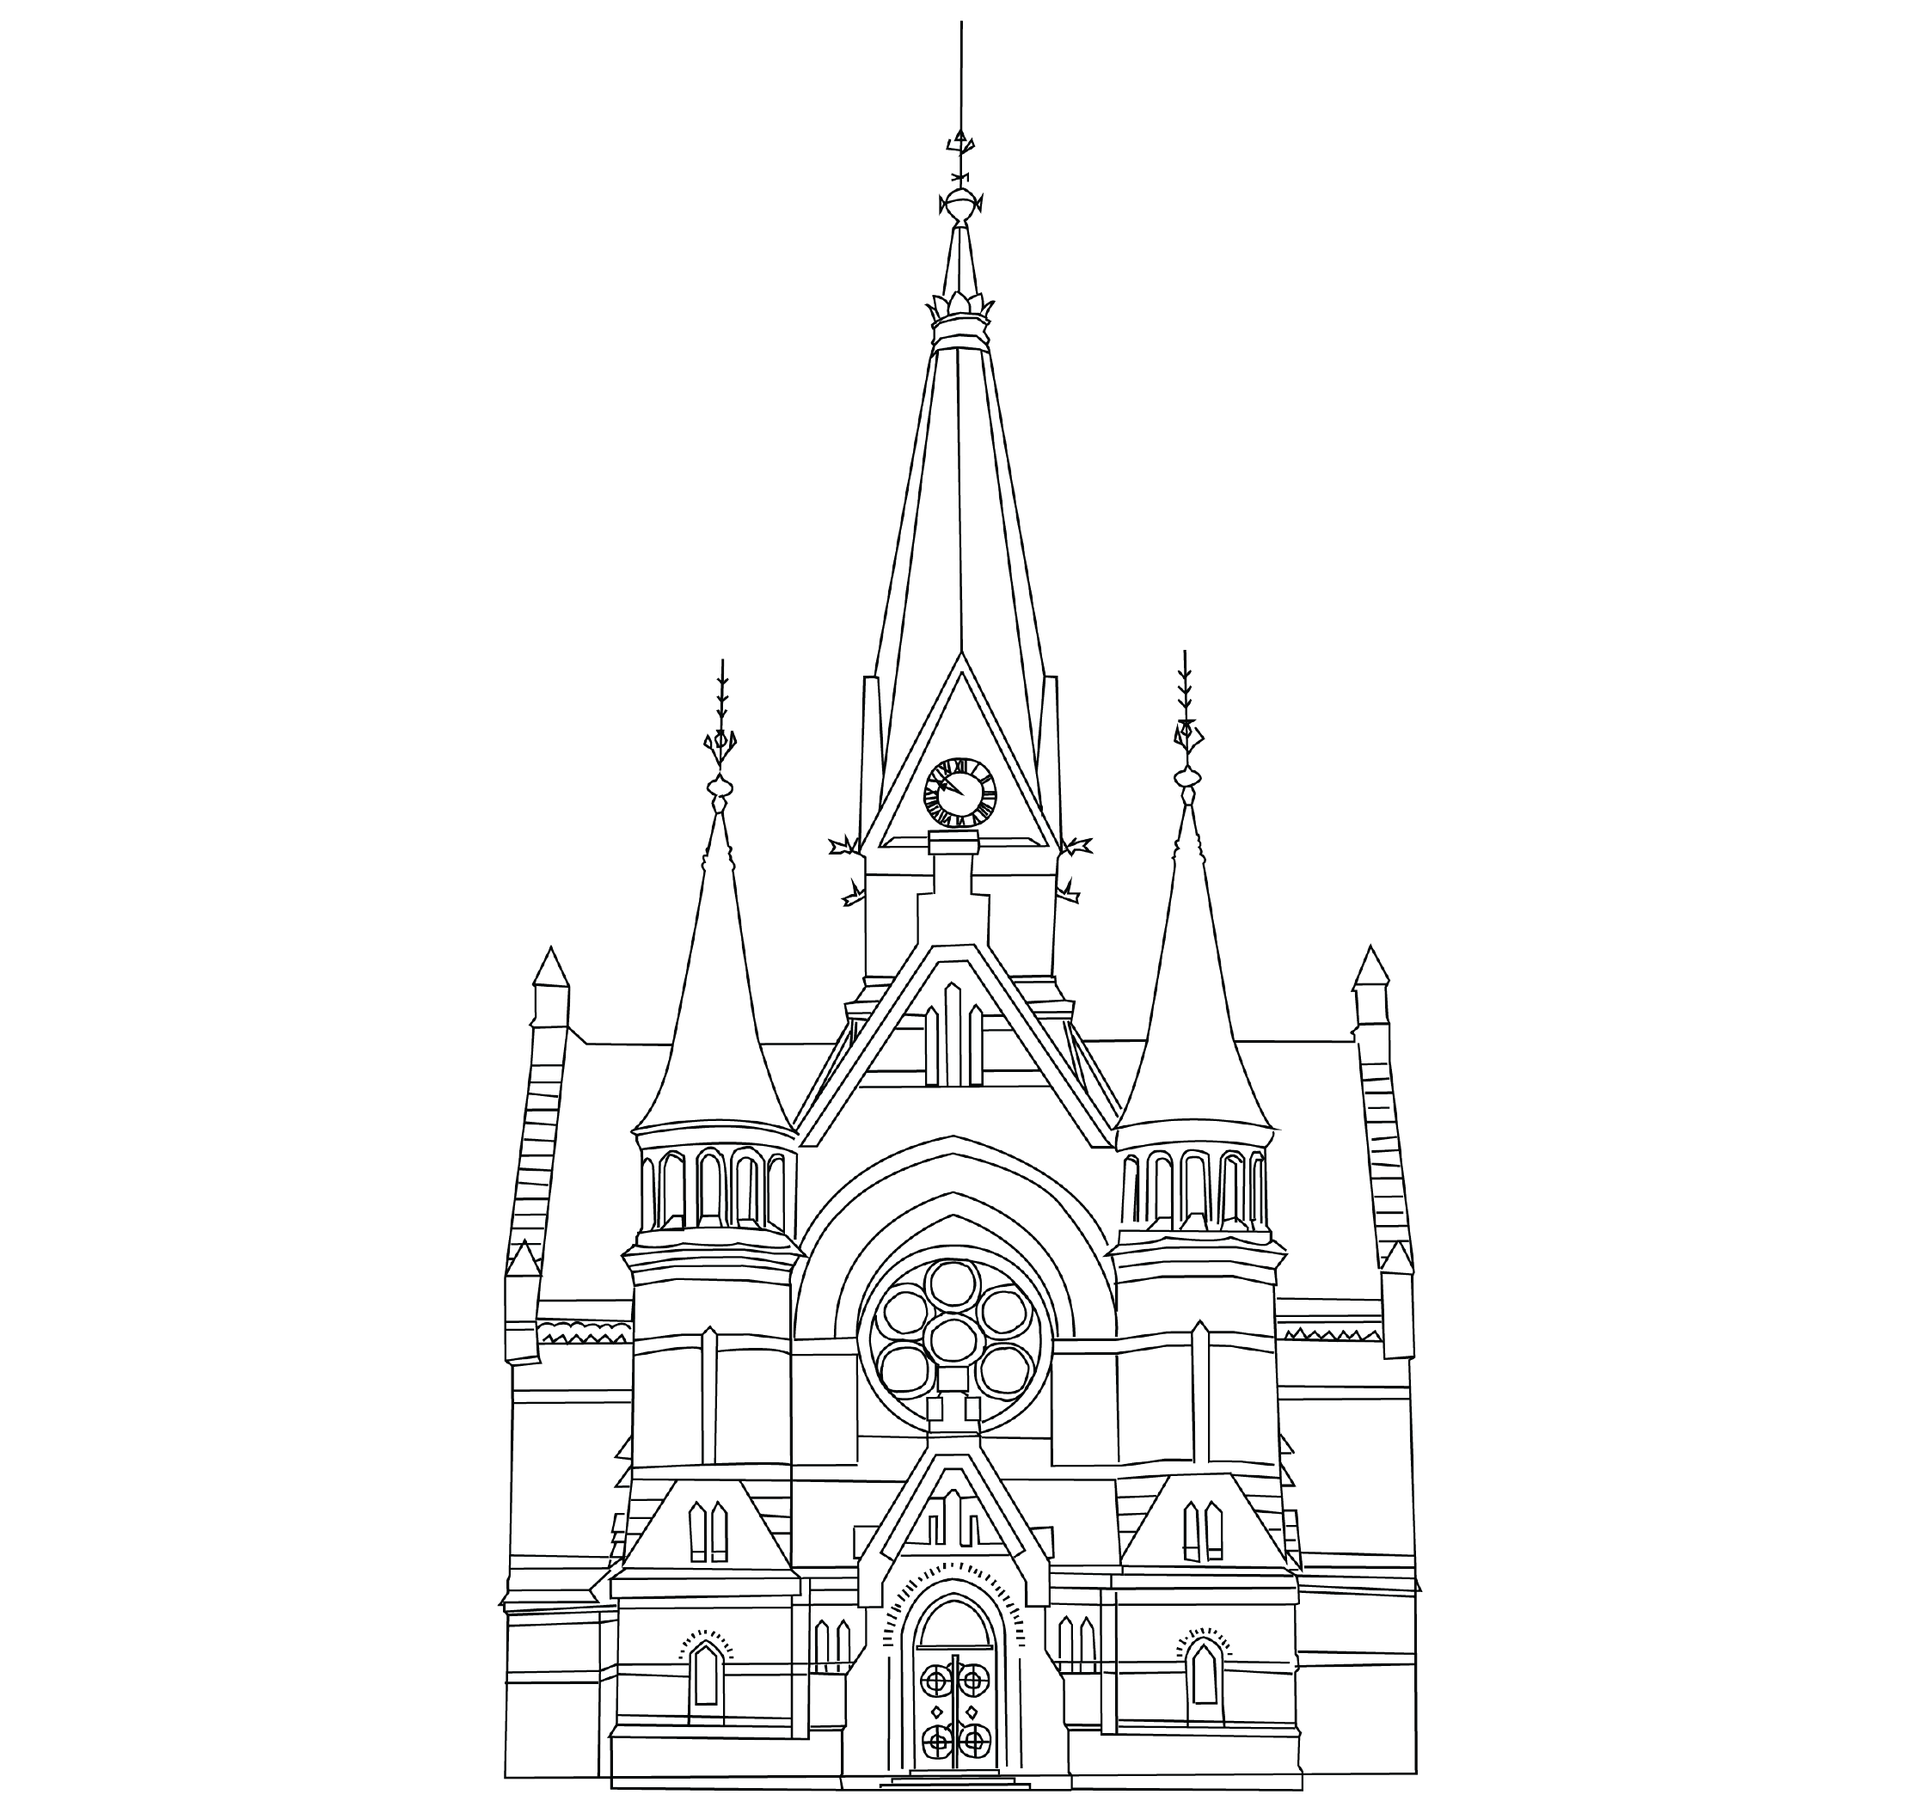
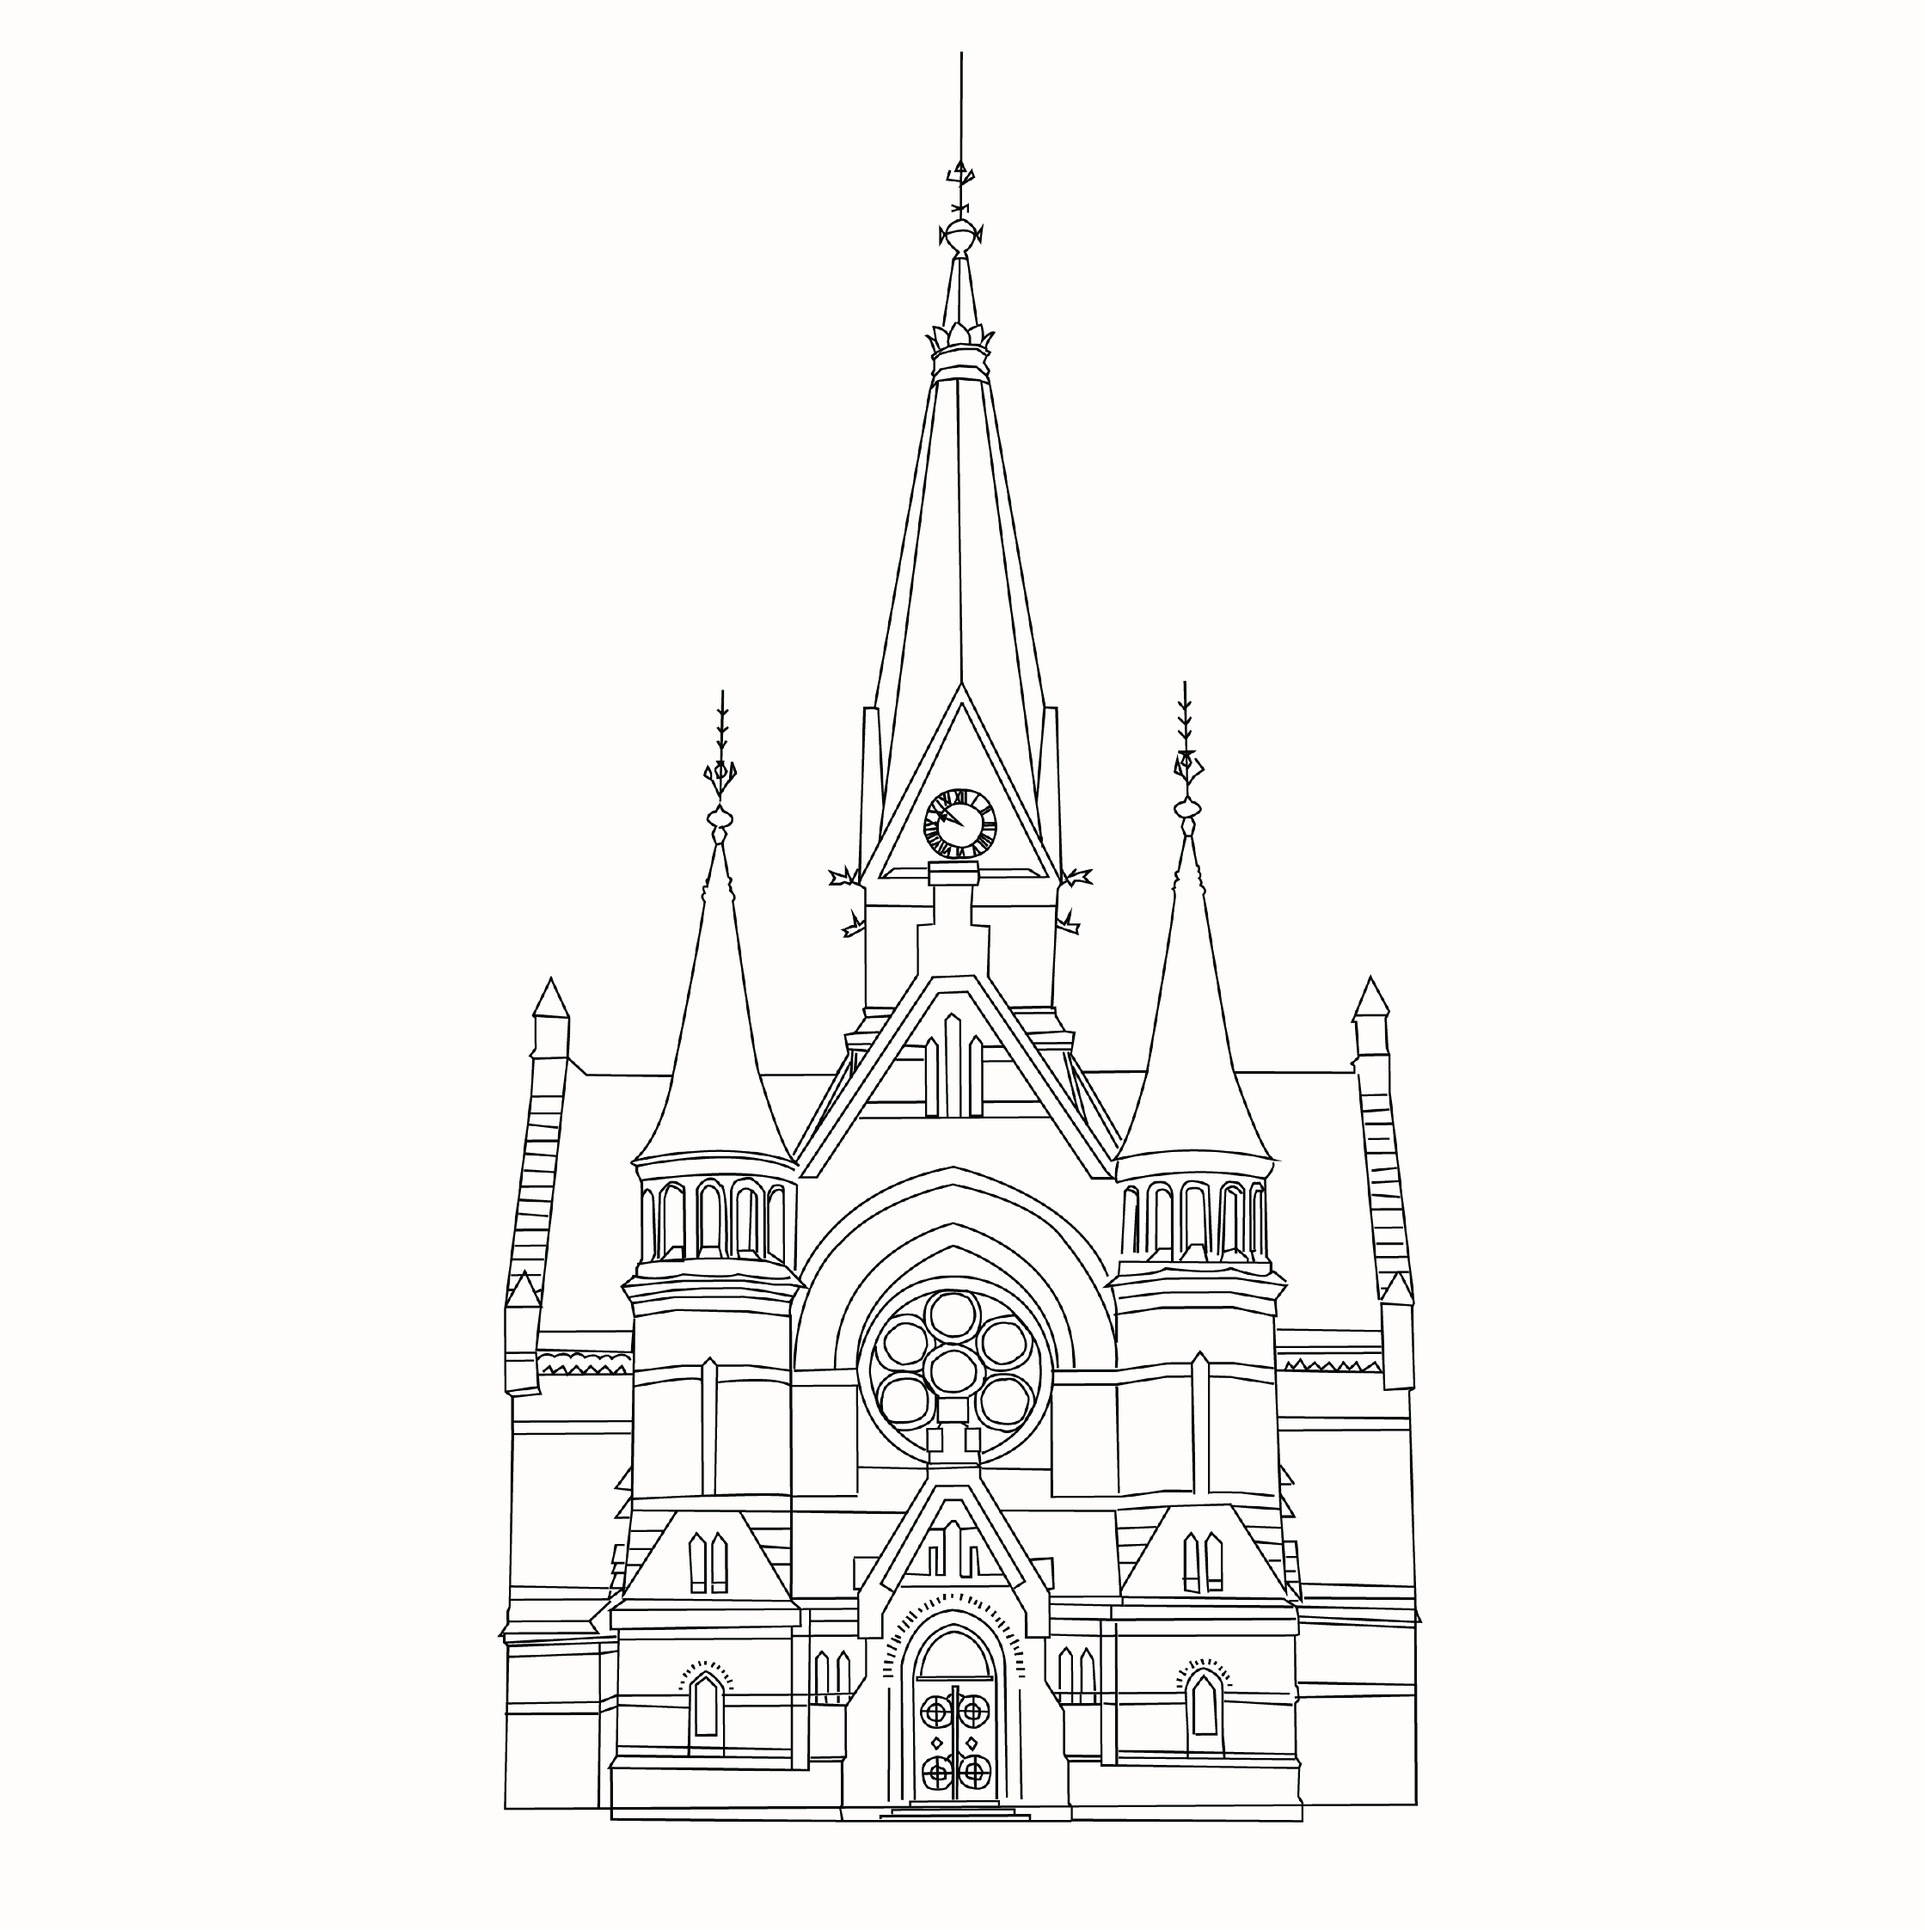
Ny infografikk

Changed region(s): [[0.2473, 0.0308, 0.7419, 1.0], [0.371, 0.3698, 0.4019, 0.4623]]

diff --git a/Side 3.html b/Side 3.html
@@ -77,7 +77,7 @@
     </div>
     <div class="row">
     <div class="column">
-        <img src="Bilder/Infografikk.png" class="center">
+        <img src="Bilder/sagenekirke.png" class="center">
         <h2>Fakta</h2>
         <p>Sagene er en bydel med mye historie, og her er litt fakta du kanskje ikke visste.</p>
         <ul class="fakta">

diff --git a/Design.css b/Design.css
@@ -153,8 +153,6 @@ section{
 #infografikk img{
     max-width: 100%;
     max-height: auto;
-    padding-top: 20px;
-    padding-bottom: 20px;
     vertical-align: top;
    
 }
